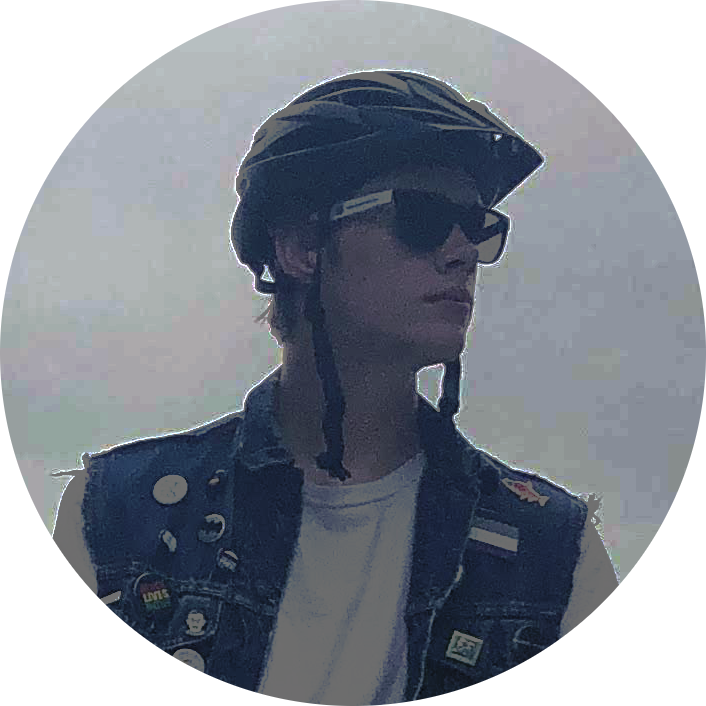
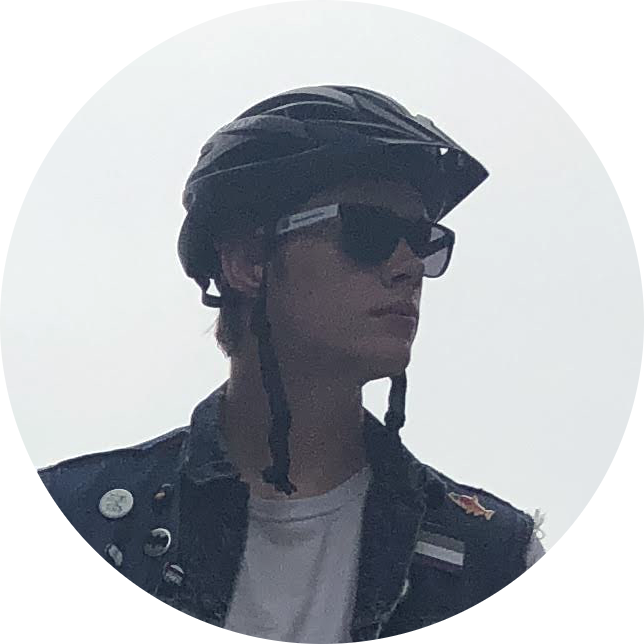
add bike jordan

diff --git a/templates/home.html b/templates/home.html
@@ -5,14 +5,19 @@
 	<script src="/static/js/home.js"></script>
 </head>
 <body>
-	<h1>Jordan W.</h1>
+	<h1>Jordan</h1>
+	<h1>W.</h1>
 	<h1>Dashel</h1>
 	<a href="/dev-jordan">
 		<img id="left" onmouseover="enlarge(this)" onmouseout="resize(this)"
 		src="/static/photos/seattle_headshot.png" alt="Jordan in Seattle">
 	</a>
+	<a href="/bike-jordan">
+		<img id="center-left" onmouseover="enlarge(this)" onmouseout="resize(this)"
+		src="/static/photos/bike_headshot.png" alt="Jordan on a Bike">
+	</a>
 	<a href="/sax-jordan">
-		<img id="center" onmouseover="enlarge(this)" onmouseout="resize(this)"
+		<img id="center-right" onmouseover="enlarge(this)" onmouseout="resize(this)"
 		src="/static/photos/sax_headshot.png" alt="Jordan playin' Sax">
 	</a>
 	<a href="/va-jordan">

diff --git a/templates/bike_jordan.html b/templates/bike_jordan.html
@@ -1,0 +1,15 @@
+<head>
+	<title>J. W. Dashel</title>
+	<link rel="stylesheet" type="text/css" href="/static/style.css">
+	<link rel="stylesheet" type="text/css" href="/static/bike_jordan.css">
+</head>
+<body>
+	<img src="/static/photos/bike.png" alt="Jordan in Seattle">
+	<div id="main">
+		<h1>Jordan W. Dashel</h1>
+		<h2>Rode his bicycle</h2>
+		<h2>Seattle &#x2192 NY</h2>
+		<h3><a href="https://www.instagram.com/jo_dshl/">See my ride.</a></h3>
+		<h3><a href="/contact">Contact me.</a></h3>
+	</div>
+</body>

diff --git a/static/home.css b/static/home.css
@@ -15,14 +15,23 @@ img {
 	right: 120px;
 	/* height: 300px; */
 }
-#center {
+#center-right {
 	position: absolute;
 	top: 400px;
 	right: 400px;
 	/* height:300px; */
 }
+#center-left {
+	position: absolute;
+	top: 400px;
+	left: 400px;
+	/* height:300px; */
+}
 h1 {
-	/* center justify */
-	position: relative;
-	left: 30%;
+	/* position: relative; */
+	/* left: 30%; */
+	text-align: center;
+}
+body {
+	padding-top: 40px;
 }

diff --git a/static/bike_jordan.css b/static/bike_jordan.css
@@ -1,0 +1,10 @@
+img {
+	right: 0;
+	position: fixed;
+	height: 100%;
+	image-orientation: from-image;
+}
+h1, h2, h3 {
+	float: left;
+	clear: left;
+}

diff --git a/main.py b/main.py
@@ -29,3 +29,7 @@ def va_jordan():
 @app.route('/my-visual-work')
 def my_visual_work():
     return render_template('my_visual_work.html')
+
+@app.route('/bike-jordan')
+def bike_jordan():
+    return render_template('bike_jordan.html')
